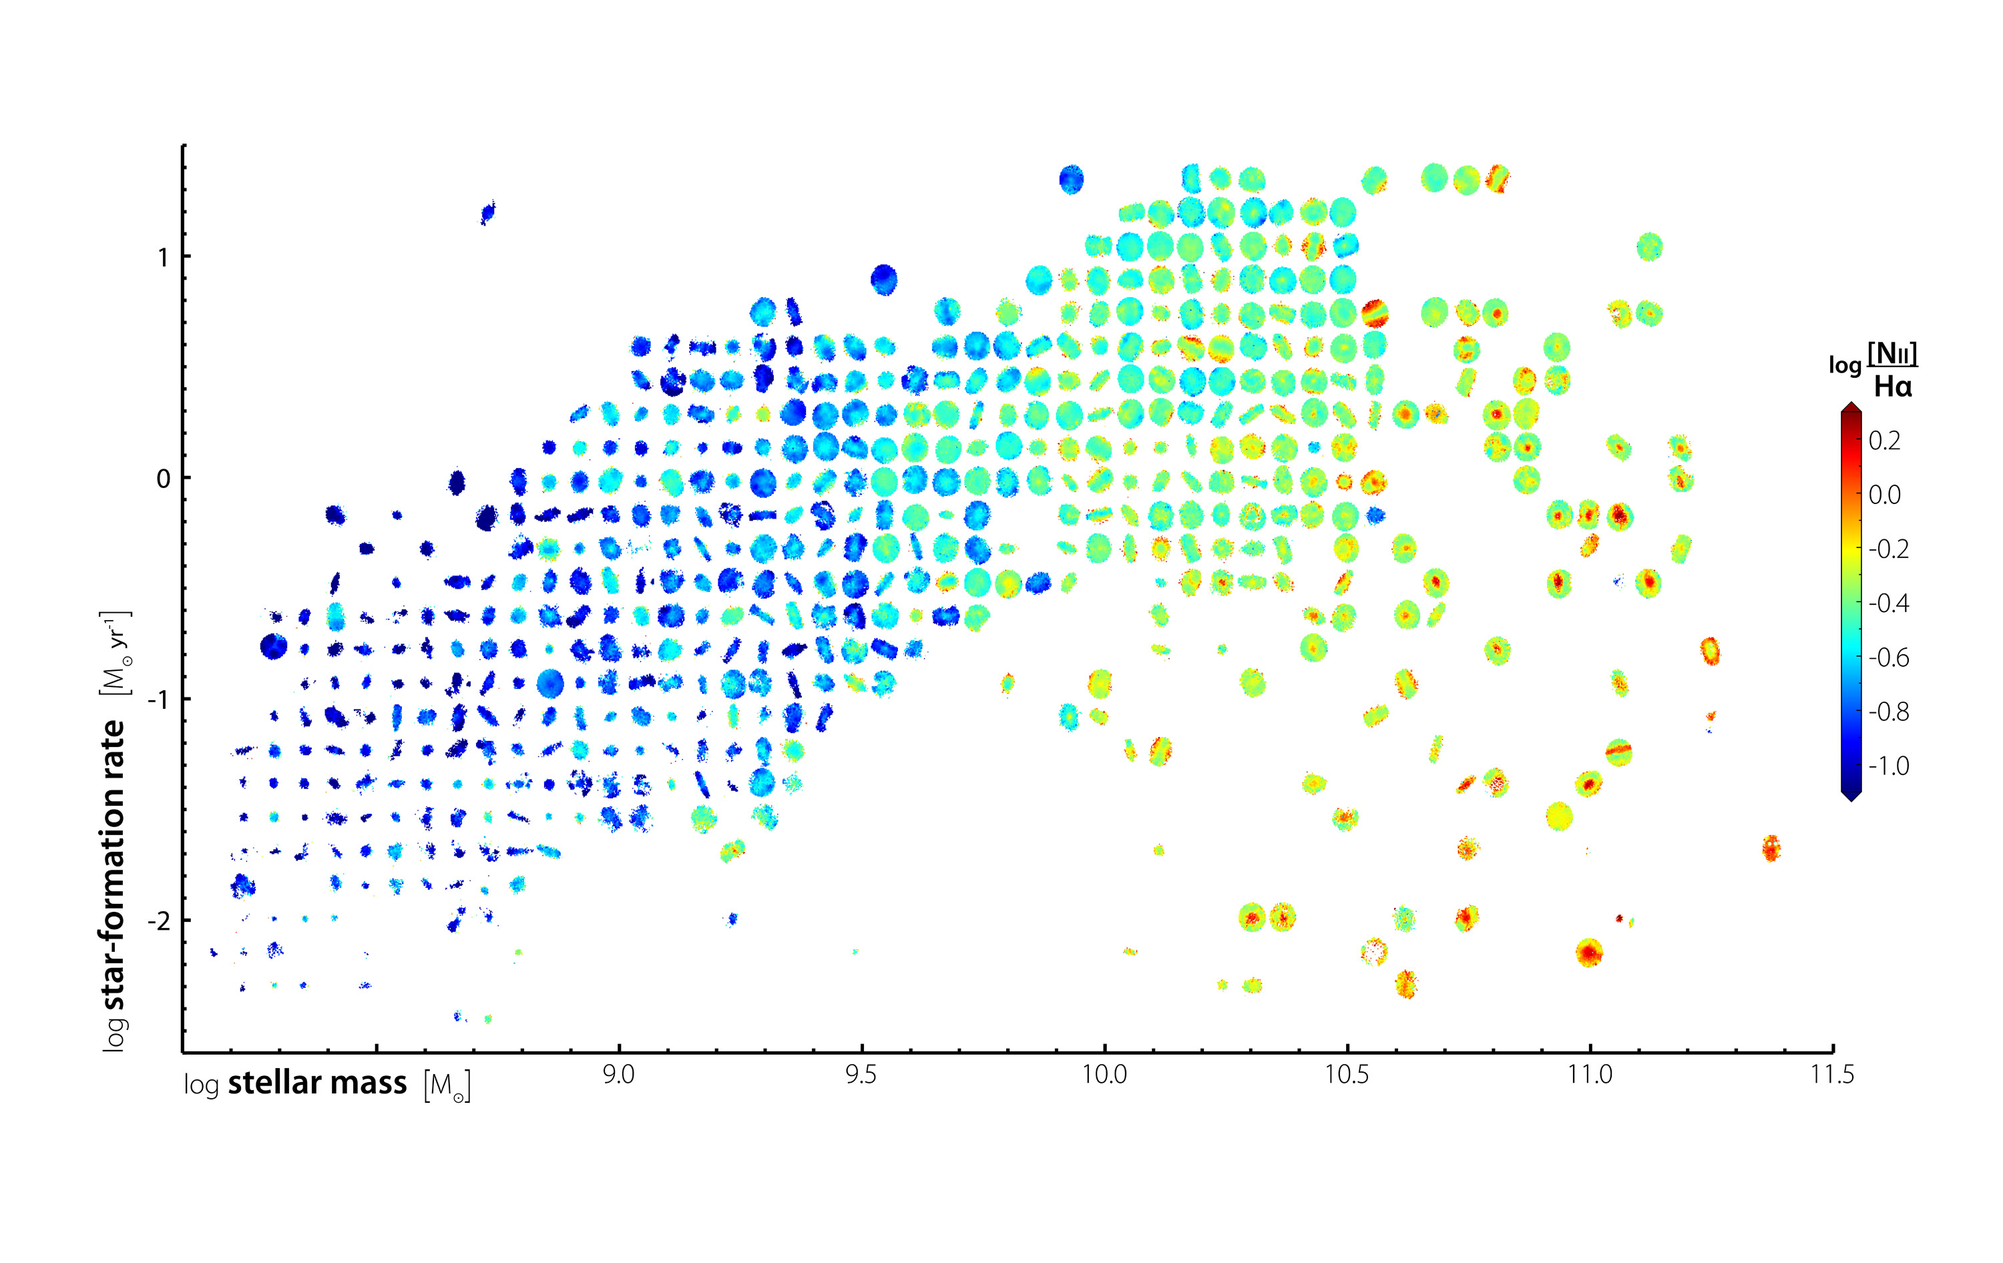
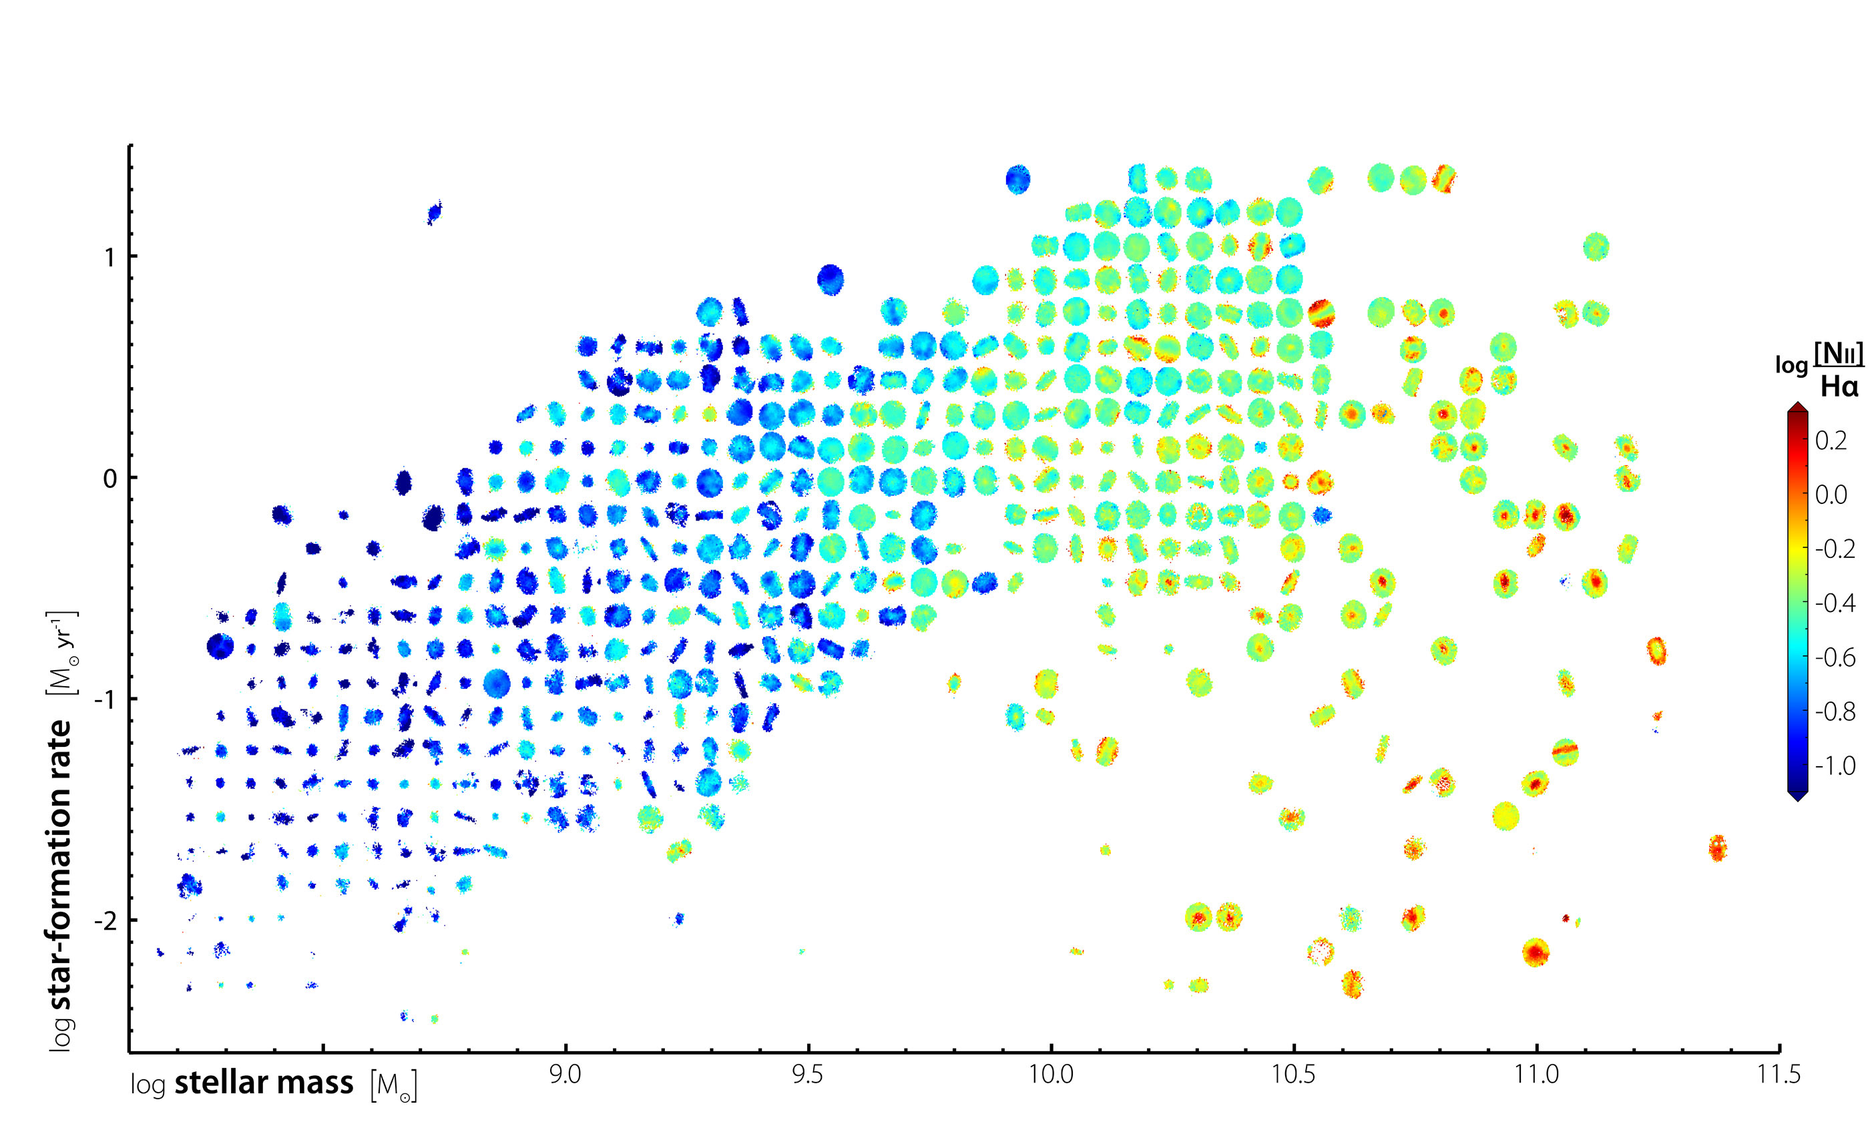
Schema and Data Browsers both share the same terminology for url lookups (root, survey, astroobject, trait etc)
Typos fixed

Moved the sfr vs stellar mass plot up into the overview section, will
 move back down to data-access once the plot is interactive.

#ASVO-774 #time 1m #done
#ASVO-781 #time 30m #done

diff --git a/web_application/data_browser/templates/data_browser/astro_object/list.html b/web_application/data_browser/templates/data_browser/astro_object/list.html
@@ -11,12 +11,11 @@
 
 {% block page_title %}Data Browser{% endblock %}
 {% block useful_links %}
-<li role="presentation" ><a href="{% url 'schema:sample-list' sample_pk=response.data.sample %}">Schema Browser</a></li>
-<li role="presentation" ><a href="{% url 'documentation:topic-detail' slug=response.data.sample %}">Documentation</a></li>
+<li role="presentation" ><a href="{% url 'schema:survey-list' survey_pk=survey %}">Schema Browser</a></li>
+<li role="presentation" ><a href="{% url 'documentation:topic-detail' slug=survey %}">Documentation</a></li>
 {% endblock useful_links %}
 
 {% block page_title_banner %}
-{% captureas survey %}{{response.data.sample}}{% endcaptureas %}
 <div class="title_info red">
     <div class="container">
         <div class="row">
@@ -54,23 +53,22 @@
 {% endblock page_title_banner %}
 
 {% block content-navigator-help %}
-    <a href="{% url 'data_browser:survey-list' sample_pk=response.data.sample %}"><i class="fa fa-reply"></i> Back to {{response.data.sample|uppercase}}</a>
+    <a href="{% url 'data_browser:survey-list' survey_pk=survey %}"><i class="fa fa-reply"></i> Back to {{survey|uppercase}}</a>
 {% endblock %}
 
 {% block content_render %}
-{% captureas survey %}{{response.data.sample}}{% endcaptureas %}
 <div class="row">
     <div class="col-xs-12 col-sm-3 sidebar" role="navigation">
         <div class="sidebar-contents">
             <div class="page-contents">
             <h5>Page Contents</h5>
             <ul class="nav nav-pills nav-stacked nav-sidebar">
-                <li role="presentation"><a class="scroll" href="#top-of-page">{{response.data.sample|uppercase}} {{response.data.astro_object}}</a></li>
+                <li role="presentation"><a class="scroll" href="#top-of-page">{{survey|uppercase}} {{astro_object}}</a></li>
             </ul>
             </div>
             <h5>Quick Links</h5>
             <ul class="nav-sidebar">
-                <li><a class="" target="_blank" href="{% url 'schema:sample-list' sample_pk=survey %}"> Schema Browser</a></li>
+                <li><a class="" target="_blank" href="{% url 'schema:survey-list' survey_pk=survey %}"> Schema Browser</a></li>
                 <li><a class="" href="{% url 'documentation:topic-detail' slug=survey %}" disabled> Documentation</a></li>
                 {% if breadcrumblist %}
                   {% with breadcrumblist|length|add:"-2" as b %}
@@ -85,7 +83,7 @@
                     <span class="panel-title">GAMA</span>
                 </div>
                 <div class="panel-body">
-                    <strong><a class="text-uppercase" target="_blank" href="http://www.gama-survey.org/dr2/tools/sov.php?cataid={{response.data.astro_object}}">GAMA Single Object Viewer for {{response.data.astro_object}} <i class="fa fa-angle-right"></i></a></strong>
+                    <strong><a class="text-uppercase" target="_blank" href="http://www.gama-survey.org/dr2/tools/sov.php?cataid={{astro_object}}">GAMA Single Object Viewer for {{astro_object}} <i class="fa fa-angle-right"></i></a></strong>
                 </div>
             </div>
 
@@ -111,7 +109,7 @@
         <div class="col-sm-2 pull-right">
             <img class="img-responsive sami-logo"  src="/static/restapi_app/img/logo/logo-{{survey}}.png">
         </div>
-        <h2>{{response.data.sample|uppercase}} {{response.data.astro_object}}</h2>
+        <h2>{{survey|uppercase}} {{astro_object}}</h2>
         <div>
 
             <!-- Nav tabs -->
@@ -126,7 +124,7 @@
                     <div class="panel panel-default">
                         <div class="panel-heading">
                             <span class="panel-title">Object Properties
-                            <small class="pull-right sub-heading">scroll for more <i class="fa fa-arrows-h"></i></small>
+                            <small class="pull-right sub-heading"><i class="fa fa-arrows-h"></i> scroll for more</small>
                             </span>
                         </div>
                         <div class="table-responsive">
@@ -142,7 +140,7 @@
                                     {% endfor %}
                                 </tr>
                                 <tr>
-                                    <td class="lead" style="vertical-align:middle">{{response.data.astro_object}}</td>
+                                    <td class="lead" style="vertical-align:middle">{{astro_object}}</td>
                                     <td style="vertical-align:middle">{{response.data.position.ra}}</td>
                                     <td style="vertical-align:middle">{{response.data.position.dec}}</td>
                                     {% for f in feature_catalog_data %}
@@ -162,9 +160,7 @@
                 <div role="tabpanel" class="tab-pane" id="products">
                     <p>Data products are grouped by their product-type (e.g., you can find the SAMI [OIII] (5007Å) and [NII] (6583Å) line maps under <em>Line Maps</em>).  </p>
                     <div class="p">Select a product type from the list below to view its properties, meta-data and where available, an interactive visualization. To find out more
-                                            about the available branches, visit the <a
-                                                    href="{% url 'schema:sample-list' sample_pk=response.data.sample %}">Schema
-                                                Browser</a>.
+                                            about the available branches, visit the <a href="{% url 'schema:survey-list' survey_pk=survey %}">Schema Browser</a>.
                     </div>
 
                     <table class="table table-bordered" > 

diff --git a/web_application/data_browser/templates/data_browser/survey/list.html b/web_application/data_browser/templates/data_browser/survey/list.html
@@ -18,7 +18,7 @@
 {% block page_title %}Data Browser{% endblock %}
 {% block useful_links %}
 {% captureas survey %}{{response.data.survey}}{% endcaptureas %}
-<li role="presentation"><a href="{% url 'schema:sample-list' survey_pk=survey %}">Schema Browser</a></li>
+<li role="presentation"><a href="{% url 'schema:survey-list' survey_pk=survey %}">Schema Browser</a></li>
 <li role="presentation"><a href="{% url 'documentation:topic-detail' slug=survey %}">Documentation</a></li>
 {% endblock useful_links %}
 
@@ -80,7 +80,7 @@
                 <h5>Quick Links</h5>
                 <ul class="nav-sidebar">
                     <li>
-                       <a class="" target="_blank" href="{% url 'schema:sample-list' survey_pk=survey %}"> Schema
+                       <a class="" target="_blank" href="{% url 'schema:survey-list' survey_pk=survey %}"> Schema
                     Browser</a>
                     </li>
 
@@ -118,7 +118,7 @@
                         </td>
                         <td class="lead">{{response.data.data_release}}</td>
                         <td class="lead">{{response.data.astro_objects | length}}</td>
-                        <td class="lead"><a href="{% url 'schema:sample-list' survey_pk=survey %}">Schema</a></td>
+                        <td class="lead"><a href="{% url 'schema:survey-list' survey_pk=survey %}">Schema</a></td>
                     </tr>
                     <tr class="large">
                         <td>PI</td>
@@ -145,22 +145,23 @@
                 </table>
             </div>
         </div>
-        <h3 id="data-access">Data Access</h3>
-
-        <p>It is recommended that you also use the SAMI Data Browser in conjunction with the
-            <a href="{% url 'schema:sample-list' survey_pk=survey %}">Schema Browser</a>, which contains comprehensive
-            descriptions of the data products available.</p>
-        <p>For help using the Data Browser,
-            <a href="{% url 'documentation:topic-detail' slug='data-browser' %}">view the documentation.</a></p>
-
         <img class="img-responsive" src="{% static 'data_browser/img/sami/sami_dr1poster_plot_only.jpg' %}">
         <span class="sub-heading"><em>Figure: The star formation rate-stellar mass relation for SAMI galaxies.
             Each individual galaxy displays the NII/Halpha line ratio map.</em></span>
 
+        <h3 id="data-access">Data Access</h3>
+
+        <p>It is recommended that you also use the SAMI Data Browser in conjunction with the
+            <a href="{% url 'schema:survey-list' survey_pk=survey %}">Schema Browser</a>, which contains comprehensive
+            descriptions of the data products available.</p>
+        <p>For help using the Data Browser,
+            <a href="{% url 'documentation:topic-detail' slug='data-browser' %}">visit the documentation.</a></p>
+
+
         <ul class="nav nav-tabs" role="tablist">
             <li role="presentation" class="active"><a href="#single" aria-controls="single" role="tab" data-toggle="tab">Single Object</a>
             </li>
-            <li role="presentation"><a href="#multiple" aria-controls="multiple" role="tab" data-toggle="tab" id="multiple_object">Multiple Object</a>
+            <li role="presentation"><a href="#multiple" aria-controls="multiple" role="tab" data-toggle="tab" id="multiple_object">Multiple Objects</a>
             </li>
         </ul>
 
@@ -225,7 +226,7 @@
                 </div>
                 <div class="row">
                     <div class="col-xs-12">
-                        <available-products schemaurls="{'SAMI':'{% url 'schema:sample-list' survey_pk='sami' %}'}" single=True></available-products>
+                        <available-products schemaurls="{'SAMI':'{% url 'schema:survey-list' survey_pk='sami' %}'}" single=True></available-products>
                         <!--{% include 'data_browser/survey/available_objects_single_survey.html' %}-->
                         <div class="row">
                             <div class="col-xs-12 text-right">
@@ -262,7 +263,7 @@
                 href="{% url 'documentation:topic-detail' slug=survey %}"><span>{{response.data.survey|uppercase}}
              Documentation</span></a>, or for in depth information/meta-data pertaining to a particular
             data product, view the
-            <a href="{% url 'schema:sample-list' survey_pk=survey %}">{{response.data.survey|uppercase}}
+            <a href="{% url 'schema:survey-list' survey_pk=survey %}">{{response.data.survey|uppercase}}
                 Schema Browser</a>.
         </p>
         <p>To learn more about the Data Browser, view the <a
@@ -381,6 +382,7 @@
 
             $("#returnTableResults_length")
                     .appendTo("#datatables_pagination");
+            $('#datatables_pagination').prepend('<small class="pull-right sub-heading"><i class="fa fa-arrows-h"></i> scroll for more </small>')
 
             //  EXPORT
             $('#datatables_export').append(

diff --git a/web_application/restapi_app/templates/restapi_app/header/navbar.html b/web_application/restapi_app/templates/restapi_app/header/navbar.html
@@ -60,7 +60,7 @@
                             <!--<li class="disabled"><a href="" disabled>Single Object Viewer</a></li>-->
                             <li role="separator" class="divider"></li>
                             <li class="dropdown-header">Schema browser for survey data products</li>
-                            <li><a href="{% url 'schema:schema-list' %}">Schema Browser</a></li>
+                            <li><a href="{% url 'schema:root-list' %}">Schema Browser</a></li>
                             <li role="separator" class="divider"></li>
                             <li class="dropdown-header">Search</li>
                             <li class="disabled"><a>Data Explorer</a></li>

diff --git a/web_application/data_browser/static/data_browser/js/available-products/templates/availableProductsSingleSurvey.html b/web_application/data_browser/static/data_browser/js/available-products/templates/availableProductsSingleSurvey.html
@@ -32,7 +32,6 @@
                             <ul class="nav nav-pills" id="{{survey}}_trait_type_key">
                                 <li role="presentation" ng-repeat="(trait_type_key, trait_type_value) in traits" ng-class='{active:$first}'>
                                     <a href="#{{survey}}_{{trait_type_key}}" aria-controls="{{trait_type_key}}" role="tab" data-toggle="tab">{{trait_type_value.pretty_name}}</a>
-                                    <p style="padding-left:15px; padding-right:15px;" class="sub-heading">{{trait_type_value.description}}</p>
                                 </li>
                             </ul>
                         </div>

diff --git a/web_application/restapi_app/templates/restapi_app/header/footer.html b/web_application/restapi_app/templates/restapi_app/header/footer.html
@@ -14,7 +14,7 @@
                         <td><h4><small><a class="text-uppercase" href="{% url 'data_browser:root-list' %}">Data Browser</a></small></h4></td>
                     </tr>
                     <tr>
-                        <td><h4><small><a class="text-uppercase" href="{% url 'schema:schema-list' %}">Schema Browser</a></small></h4></td>
+                        <td><h4><small><a class="text-uppercase" href="{% url 'schema:root-list' %}">Schema Browser</a></small></h4></td>
                     </tr>
                     </tbody>
                 </table>

diff --git a/web_application/data_browser/static/data_browser/js/available-products/controllers.js b/web_application/data_browser/static/data_browser/js/available-products/controllers.js
@@ -26,7 +26,6 @@ console.log('availableproducts.controllers.js');
         $scope.isSubmitted.state=false;
 
         try {
-            console.log(ctrl.schemaurls);
 
             ctrl.surveys = JSON.parse((ctrl.schemaurls).replace(/'/g, '"'));
 

diff --git a/web_application/data_browser/views.py b/web_application/data_browser/views.py
@@ -89,7 +89,7 @@ class SurveyViewSet(mixins.ListModelMixin, viewsets.GenericViewSet, mixins.Creat
         )
         return Response(serializer.data)
 
-    def create(self, request, pk=None, sample_pk=None, *args, **kwargs):
+    def create(self, request, pk=None, survey_pk=None, *args, **kwargs):
 
         download_data = json.loads(request.POST['download'])
 
@@ -228,9 +228,9 @@ class AstroObjectViewSet(mixins.ListModelMixin, viewsets.GenericViewSet):
     renderer_classes = (data_browser.renderers.AstroObjectRenderer, renderers.JSONRenderer)
     permission_classes = [permissions.AllowAny]
 
-    def list(self, request, pk=None, sample_pk=None, astroobject_pk=None, format=None):
+    def list(self, request, pk=None, survey_pk=None, astroobject_pk=None, format=None):
 
-        self.breadcrumb_list = ['Data Browser', str(sample_pk).upper(), astroobject_pk]
+        self.breadcrumb_list = ['Data Browser', str(survey_pk).upper(), astroobject_pk]
 
         try:
             astro_object = sami_dr1_sample[astroobject_pk]
@@ -244,10 +244,16 @@ class AstroObjectViewSet(mixins.ListModelMixin, viewsets.GenericViewSet):
         except ValueError:
             return Response(data={}, status=status.HTTP_400_BAD_REQUEST)
 
+        # Context (for html page render)
+        self.survey = survey_pk
+        self.astro_object = astroobject_pk
+
+        # Endpoint-only
+
         serializer_class = data_browser.serializers.AstroObjectSerializer
         url_kwargs = {
             'astroobject_pk': astroobject_pk,
-            'sample_pk': sample_pk,
+            'survey_pk': survey_pk,
         }
         astro_object_url = reverse("data_browser:astroobject-list", kwargs=url_kwargs)
         # Dict of available traits
@@ -271,7 +277,7 @@ class AstroObjectViewSet(mixins.ListModelMixin, viewsets.GenericViewSet):
                 url_kwargs = {
                     'trait_pk': trait_name,
                     'astroobject_pk': astroobject_pk,
-                    'sample_pk': sample_pk,
+                    'survey_pk': survey_pk,
                 }
                 trait_name_url = reverse("data_browser:trait-list", kwargs=url_kwargs)
 
@@ -312,7 +318,7 @@ class AstroObjectViewSet(mixins.ListModelMixin, viewsets.GenericViewSet):
         serializer = serializer_class(
             instance=astro_object, many=False,
             context={
-                'sample': sample_pk,
+                'survey': survey_pk,
                 'astro_object': astroobject_pk,
                 'request': request,
                 'traits': trait_info,

diff --git a/web_application/schema/urls.py b/web_application/schema/urls.py
@@ -14,20 +14,18 @@ import schema.views
 router = rest_framework.routers.SimpleRouter()
 # router = ExtendDefaultRouter()
 
-router.register(r'data-access/schema', schema.views.SchemaViewSet, base_name='schema')
-
-# router.register(r'testing/(?P<dynamic_pk>.+)', data_browser.views.TestingViewSet, base_name='testing')
+router.register(r'data-access/schema', schema.views.SchemaViewSet, base_name='root')
 
 # Nested routes for sample ()
-sample_nested_router = NestedExtendDefaultRouter(router, r'data-access/schema', lookup='schema')
-sample_nested_router.register(r'(?P<survey_pk>[^/]+)', schema.views.SurveyViewSet, base_name='sample')
+sample_nested_router = NestedExtendDefaultRouter(router, r'data-access/schema', lookup='root')
+sample_nested_router.register(r'(?P<survey_pk>[^/]+)', schema.views.SurveyViewSet, base_name='survey')
 
-astroobject_nested_router = NestedExtendDefaultRouter(sample_nested_router, r'(?P<survey_pk>[^/]+)', lookup='sample')
-astroobject_nested_router.register(r'(?P<astroobject_pk>[^/]+)', schema.views.AstroObjectViewSet, base_name='astroobject')
-
-trait_nested_router = NestedExtendDefaultRouter(astroobject_nested_router, r'(?P<astroobject_pk>[^/]+)', lookup='astroobject')
-trait_nested_router.register(r'(?P<trait_pk>[^/]+)', schema.views.TraitViewSet, base_name='trait')
-trait_nested_router.register(r'(?P<trait_pk>' + TRAIT_KEY_RE.pattern + ')', schema.views.TraitViewSet, base_name='trait')
+# astroobject_nested_router = NestedExtendDefaultRouter(sample_nested_router, r'(?P<survey_pk>[^/]+)', lookup='sample')
+# astroobject_nested_router.register(r'(?P<astroobject_pk>[^/]+)', schema.views.AstroObjectViewSet, base_name='astroobject')
+#
+# trait_nested_router = NestedExtendDefaultRouter(astroobject_nested_router, r'(?P<astroobject_pk>[^/]+)', lookup='astroobject')
+# trait_nested_router.register(r'(?P<trait_pk>[^/]+)', schema.views.TraitViewSet, base_name='trait')
+# trait_nested_router.register(r'(?P<trait_pk>' + TRAIT_KEY_RE.pattern + ')', schema.views.TraitViewSet, base_name='trait')
 
 urlpatterns = [
     url(r'^(?i)', include(router.urls)),

diff --git a/web_application/data_browser/renderers.py b/web_application/data_browser/renderers.py
@@ -68,6 +68,8 @@ class AstroObjectRenderer(restapi_app.renderers.ExtendBrowsableAPIRenderer):
 
     def get_context(self, data, accepted_media_type, renderer_context):
         context = super().get_context(data, accepted_media_type, renderer_context)
+        context['survey'] = renderer_context['view'].survey
+        context['astro_object'] = renderer_context['view'].astro_object
         context['traits_to_render'] = {"sami": ['velocity_map', 'sfr_map']}
         context['feature_catalog_data'] = renderer_context['view'].feature_catalog_data
 

diff --git a/web_application/data_browser/serializers.py b/web_application/data_browser/serializers.py
@@ -91,12 +91,11 @@ class DownloadSerializer(serializers.Serializer):
     download = serializers.CharField(default='None', max_length=10000)
 
 
-class AstroObjectSerializer(data_browser.mixins.AstronomicalObjectAttributesMixin):
+class AstroObjectSerializer(serializers.Serializer):
     """ Returns list of available traits. """
 
     def get_traits(self, obj):
         return self.context['traits']
-
 
     def get_position(self, obj):
         return self.context['position']
